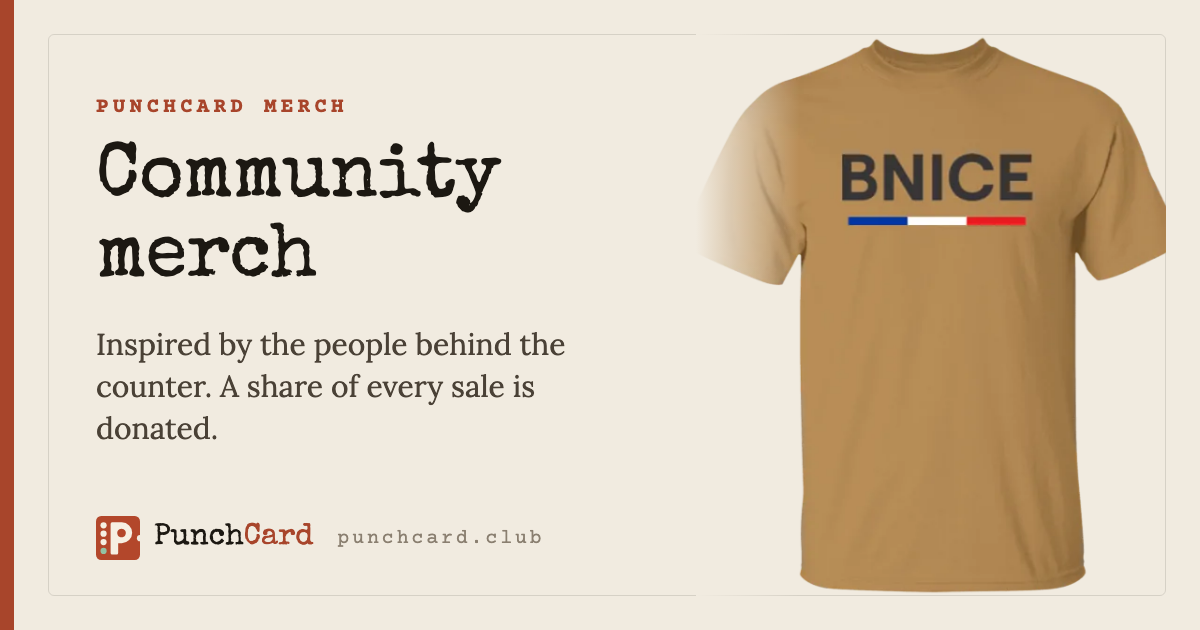
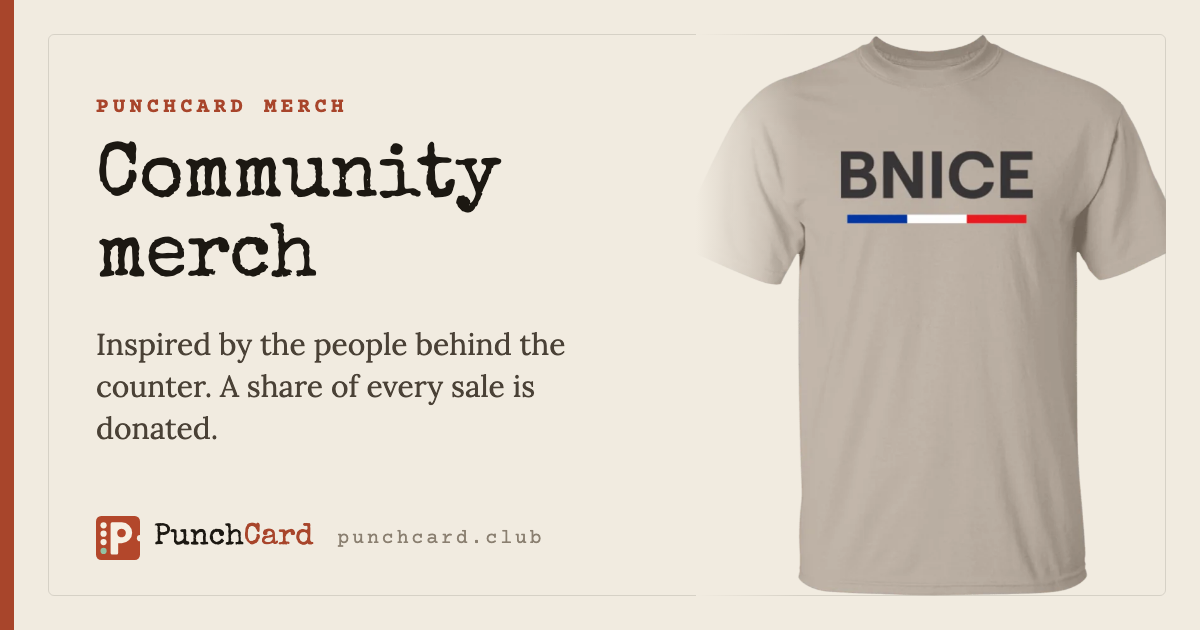
Merch page: bolder BNICE 'Stand Your Ground' drop: dark panel with tricolour edge, featured tribute tee, hoodie and heavyweight tee (plain BNICE, no $ versions); Merch in the page menu (#135)

Changed region(s): [[0.5858, 0.0603, 0.9867, 0.9651]]

diff --git a/merch/index.html b/merch/index.html
@@ -29,22 +29,37 @@
 <style>
   .merch-page { display: grid; gap: 2.2rem; }
   .merch-kicker { font-family: 'Courier Prime', monospace; font-size: .78rem; letter-spacing: .14em; text-transform: uppercase; color: var(--terra); margin: 0 0 .4rem; }
-  .merch-col { display: grid; gap: 1.1rem; padding: 1.4rem; border-radius: 20px; background: var(--paper-card); border: 1px solid var(--border-mid); }
-  .merch-col-head { display: grid; gap: .5rem; max-width: 42rem; }
-  .merch-col-head h2 { font-family: 'Special Elite', cursive; font-weight: 400; font-size: clamp(1.6rem, 5vw, 2.2rem); margin: 0; text-wrap: balance; }
-  .merch-stripe { display: flex; width: 4.5rem; height: 5px; border-radius: 3px; overflow: hidden; }
-  .merch-stripe i { flex: 1; } .merch-stripe i:nth-child(1) { background: #002395; } .merch-stripe i:nth-child(2) { background: #fff; box-shadow: inset 0 0 0 1px var(--border-mid); } .merch-stripe i:nth-child(3) { background: #ed2939; }
-  .merch-col-head p { margin: 0; line-height: 1.65; color: var(--ink-mid); }
-  .merch-give { margin: 0; padding: .8rem 1rem; border-left: 4px solid var(--sol); background: rgba(61,90,74,.07); border-radius: 0 12px 12px 0; line-height: 1.55; }
-  .merch-grid { display: grid; grid-template-columns: repeat(auto-fit, minmax(min(100%, 210px), 1fr)); gap: 1rem; }
-  .merch-item { display: grid; gap: .25rem; align-content: start; padding: .8rem .8rem 1rem; border-radius: 16px; background: var(--paper); border: 1.5px solid var(--border-mid); color: var(--ink); text-decoration: none; transition: transform .15s, border-color .15s; }
-  .merch-item:hover, .merch-item:focus-visible { transform: translateY(-2px); border-color: var(--terra); color: var(--ink); }
-  .merch-item img { width: 100%; height: auto; aspect-ratio: 1; object-fit: contain; border-radius: 10px; background: #fff; }
-  .merch-item .tag { justify-self: start; margin-top: .5rem; padding: .15rem .55rem; border-radius: 999px; background: var(--terra); color: #fff; font-family: 'Courier Prime', monospace; font-size: .7rem; letter-spacing: .08em; text-transform: uppercase; }
-  .merch-item .nm { font-family: 'Lora', serif; font-weight: 700; font-size: 1.1rem; margin-top: .3rem; }
-  .merch-item .dt { font-size: .85rem; color: var(--ink-mid); }
-  .merch-item .pr { display: flex; align-items: center; justify-content: space-between; margin-top: .5rem; font-family: 'Courier Prime', monospace; font-weight: 700; }
-  .merch-item .go { padding: .35rem .85rem; border-radius: 999px; background: var(--terra); color: #fff; font-family: 'Lora', serif; font-size: .9rem; }
+  /* The collection: a dark "drop" panel, so the garments pop */
+  .drop { position: relative; overflow: hidden; display: grid; gap: 1.4rem; padding: clamp(1.3rem, 4vw, 2.4rem); border-radius: 24px; background: #17130e; color: #f6efe2; }
+  .drop::before { content: ""; position: absolute; inset: 0 0 auto 0; height: 6px; background: linear-gradient(90deg, #002395 0 33.3%, #fff 33.3% 66.6%, #ed2939 66.6%); }
+  .drop-head { display: grid; gap: .6rem; max-width: 44rem; }
+  .drop-kicker { font-family: 'Courier Prime', monospace; font-size: .76rem; letter-spacing: .18em; text-transform: uppercase; color: #f4d9a7; margin: 0; }
+  .drop-head h2 { margin: 0; font-family: 'Special Elite', cursive; font-weight: 400; font-size: clamp(2.2rem, 8vw, 4rem); line-height: .95; letter-spacing: .01em; text-wrap: balance; }
+  .drop-head h2 span { display: block; font-size: .5em; color: #f4d9a7; margin-top: .35rem; }
+  .drop-head p { margin: 0; line-height: 1.65; color: rgba(246,239,226,.8); }
+  .drop-give { margin: 0; padding: .8rem 1rem; border-left: 4px solid #f4d9a7; background: rgba(244,217,167,.08); border-radius: 0 12px 12px 0; line-height: 1.55; color: #f6efe2; }
+  .drop-grid { display: grid; grid-template-columns: 1.25fr 1fr; grid-template-rows: auto auto; gap: 1rem; }
+  .drop-item { position: relative; display: flex; flex-direction: column; overflow: hidden; border-radius: 18px; background: radial-gradient(120% 90% at 50% 30%, #3b3125 0%, #231d16 70%); color: #f6efe2; text-decoration: none; text-align: left; border: 1px solid rgba(246,239,226,.1); transition: border-color .2s, transform .2s; }
+  .drop-item.feature { grid-row: span 2; }
+  .drop-item .pic, .drop-item .info { width: 100%; box-sizing: border-box; }
+  .drop-item.feature img { width: 88%; }
+  .drop-item:hover, .drop-item:focus-visible { border-color: #f4d9a7; transform: translateY(-3px); color: #f6efe2; }
+  .drop-item .pic { flex: 1 1 auto; display: flex; align-items: center; justify-content: center; padding: 1.4rem 1.4rem .4rem; min-height: 0; }
+  .drop-item img { display: block; width: auto; max-width: 100%; height: auto; max-height: 260px; object-fit: contain; filter: drop-shadow(0 18px 24px rgba(0,0,0,.45)); transition: transform .35s; }
+  .drop-item.feature .pic { padding: 2.6rem 2rem 1rem; }
+  .drop-item.feature img { max-height: 520px; }
+  .drop-item.feature .nm { font-size: 1.4rem; }
+  .drop-item:hover img { transform: scale(1.04) rotate(-1deg); }
+  .drop-item .info { display: flex; align-items: flex-end; justify-content: space-between; gap: .8rem; padding: .9rem 1.1rem 1.1rem; }
+  .drop-item .nm { display: block; font-family: 'Lora', serif; font-weight: 700; font-size: 1.1rem; }
+  .drop-item .dt { display: block; font-size: .84rem; color: rgba(246,239,226,.65); margin-top: .15rem; }
+  .drop-item .pr { display: block; font-family: 'Courier Prime', monospace; font-weight: 700; color: #f4d9a7; margin-top: .35rem; }
+  .drop-item .go { flex: none; padding: .45rem 1rem; border-radius: 999px; background: #f4d9a7; color: #17130e; font-family: 'Lora', serif; font-weight: 700; font-size: .9rem; }
+  .drop-item .badge { position: absolute; top: .9rem; left: .9rem; padding: .2rem .6rem; border-radius: 999px; background: #ed2939; color: #fff; font-family: 'Courier Prime', monospace; font-size: .7rem; letter-spacing: .1em; text-transform: uppercase; }
+  .drop .merch-fine { color: rgba(246,239,226,.6); }
+  .drop .merch-fine a { color: #f4d9a7; }
+  @media (max-width: 720px) { .drop-grid { grid-template-columns: 1fr 1fr; } .drop-item.feature { grid-column: 1 / -1; grid-row: auto; } .drop-item.feature img { max-height: 340px; } .drop-item img { max-height: 190px; } .drop-item .info { flex-direction: column; align-items: flex-start; } }
+  @media (max-width: 420px) { .drop-grid { grid-template-columns: 1fr; } }
   .merch-fine { margin: 0; font-size: .85rem; line-height: 1.55; color: var(--ink-mid); }
   .merch-next { display: grid; gap: .5rem; padding: 1.2rem 1.4rem; border-radius: 20px; border: 1.5px dashed var(--border-mid); }
   .merch-next h2 { margin: 0; font-family: 'Lora', serif; font-size: 1.3rem; }
@@ -55,8 +70,9 @@
 <nav>
   <a class="nav-logo" href="/"><img class="brand-mark" src="/brand/punchcard.svg" alt="" width="30" height="30">Punch<span>Card</span><small>.club</small></a>
   <ul class="nav-links">
-    <li><a href="/loyalty/">Loyalty Rewards</a></li>
+    <li><a href="/loyalty/">Loyalty<span class="nav-more"> Rewards</span></a></li>
     <li><a href="/launchpad/">Launchpad</a></li>
+    <li><a href="/merch/" aria-current="page">Merch</a></li>
   </ul>
 </nav>
 
@@ -67,36 +83,29 @@
     <p class="lede">Designs that celebrate the shops, workers and neighbors that make a street feel like home. A share of every sale is donated to help local businesses and their people.</p>
   </div>
 
-  <section class="merch-col" aria-labelledby="bniceH">
-    <div class="merch-col-head">
-      <p class="merch-kicker">Nice, France</p>
-      <h2 id="bniceH">BNICE · Stand Your Ground</h2>
-      <span class="merch-stripe" aria-hidden="true"><i></i><i></i><i></i></span>
-      <p>A tribute to the store manager who stood firm to protect his neighborhood shop in Nice, France, on October 17th. A minimalist emblem with the French tricolour, for everyone who stands up for the shops and people on their street.</p>
-      <p class="merch-give">PunchCard will donate a share of every sale from this collection to help local shops and workers in France, starting with those affected by the recent damage in Nice.</p>
+  <section class="drop" aria-labelledby="bniceH">
+    <div class="drop-head">
+      <p class="drop-kicker">Collection 01 · Nice, France</p>
+      <h2 id="bniceH">BNICE<span>Stand Your Ground</span></h2>
+      <p>A tribute to the store manager who stood firm to protect his neighborhood shop in Nice, France, on October 17th. A minimalist emblem, with or without the French tricolour, for everyone who stands up for the shops and people on their street.</p>
+      <p class="drop-give">PunchCard will donate a share of every sale from this collection to help local shops and workers in France, starting with those affected by the recent damage in Nice.</p>
     </div>
-    <div class="merch-grid">
-      <a class="merch-item" href="https://store.halo.com/br101/bnice/product-1049" target="_blank" rel="noopener">
-        <img src="/merch/bnice/tee.webp" alt="BNICE Stand Your Ground Tribute Tee, tan, BNICE logo with a blue, white and red stripe" width="600" height="600" loading="lazy">
-        <span class="tag">Tribute tee</span>
-        <span class="nm">BNICE “Stand Your Ground” Tee</span>
-        <span class="dt">Classic heavyweight cotton tee</span>
-        <span class="pr">$19.39<span class="go">Get it</span></span>
+    <div class="drop-grid">
+      <a class="drop-item feature" href="https://store.halo.com/br101/bnice/product-1049" target="_blank" rel="noopener">
+        <span class="badge">Tribute tee</span>
+        <span class="pic"><img src="/merch/bnice/tee.webp" alt="BNICE Stand Your Ground Tribute Tee: tan tee, BNICE with a blue, white and red stripe" width="808" height="890"></span>
+        <span class="info"><span><span class="nm">“Stand Your Ground” Tee</span><span class="dt">BNICE with the tricolour · classic cotton</span><span class="pr">$19.39</span></span><span class="go">Get it</span></span>
       </a>
-      <a class="merch-item" href="https://store.halo.com/br101/bnice/product-1755" target="_blank" rel="noopener">
-        <img src="/merch/bnice/hooded-tee.webp" alt="BNICE hooded athletic tee, red, BNICE logo with a blue, white and red stripe" width="600" height="600" loading="lazy">
-        <span class="nm">BNICE Hooded Tee</span>
-        <span class="dt">Lightweight hooded athletic tee</span>
-        <span class="pr">$35.59<span class="go">Get it</span></span>
+      <a class="drop-item" href="https://store.halo.com/br101/bnice/product-541" target="_blank" rel="noopener">
+        <span class="pic"><img src="/merch/bnice/hoodie.webp" alt="BNICE hoodie: sand hoodie, plain white BNICE" width="740" height="891" loading="lazy"></span>
+        <span class="info"><span><span class="nm">BNICE Hoodie</span><span class="dt">Plain BNICE · pullover hoodie</span><span class="pr">$36.67</span></span><span class="go">Get it</span></span>
       </a>
-      <a class="merch-item" href="https://store.halo.com/br101/bnice/product-703" target="_blank" rel="noopener">
-        <img src="/merch/bnice/fan-jersey.webp" alt="BNICE women's fan jersey, red, BNICE logo with a blue, white and red stripe" width="600" height="600" loading="lazy">
-        <span class="nm">BNICE Fan Jersey</span>
-        <span class="dt">Women’s fan jersey</span>
-        <span class="pr">$35.59<span class="go">Get it</span></span>
+      <a class="drop-item" href="https://store.halo.com/br101/bnice/product-1460" target="_blank" rel="noopener">
+        <span class="pic"><img src="/merch/bnice/heavy-tee.webp" alt="BNICE heavyweight tee: sand Comfort Colors tee, plain white BNICE" width="851" height="831" loading="lazy"></span>
+        <span class="info"><span><span class="nm">BNICE Heavyweight Tee</span><span class="dt">Plain BNICE · Comfort Colors</span><span class="pr">$30.19</span></span><span class="go">Get it</span></span>
       </a>
     </div>
-    <p class="merch-fine">Sold by PunchCard through Halo, which handles sizes, payment and delivery. US shipping only for now. Prices and stock as listed at Halo. Community-inspired designs, not made or endorsed by any business or brand. <a href="https://store.halo.com/br101/bnice" target="_blank" rel="noopener">See the full BNICE store</a></p>
+    <p class="merch-fine">Sold by PunchCard through Halo, which handles sizes, colors, payment and delivery. US shipping only for now. Prices and stock as listed at Halo. Community-inspired designs, not made or endorsed by any business or brand. <a href="https://store.halo.com/br101/bnice" target="_blank" rel="noopener">See the full BNICE store</a></p>
   </section>
 
   <section class="merch-next">
